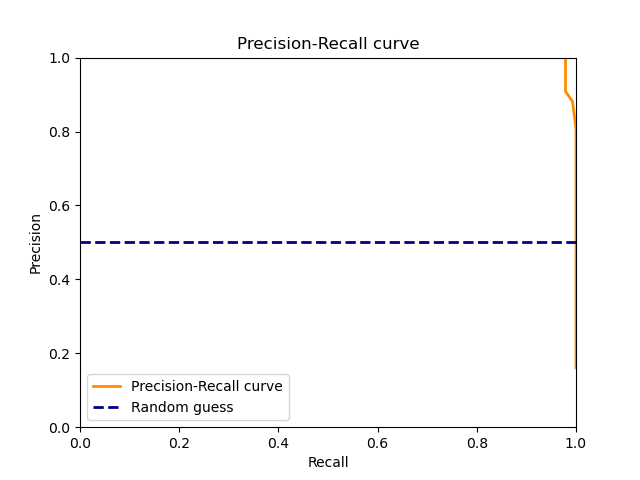
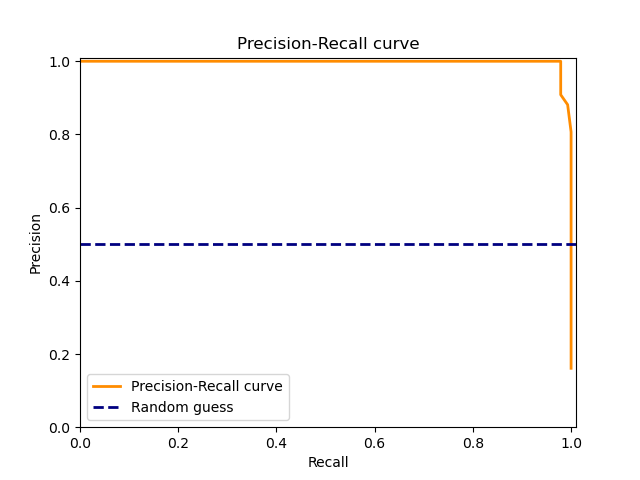
Update visualization.py to fix axis limits in ROC and precision-recall curves

diff --git a/src/models/visualization.py b/src/models/visualization.py
@@ -31,8 +31,8 @@ def plot_roc_curve(model, X_test, y_test, path=None):
     plt.figure()
     plt.plot(fpr, tpr, color='darkorange', lw=2, label='ROC curve (area = %0.2f)' % roc_auc)
     plt.plot([0, 1], [0, 1], color='navy', lw=2, linestyle='--', label='Random guess')
-    plt.xlim([0.0, 1.0])
-    plt.ylim([0.0, 1.05])
+    plt.xlim([0.0, 1.01])
+    plt.ylim([0.0, 1.01])
     plt.xlabel('False Positive Rate')
     plt.ylabel('True Positive Rate')
     plt.title('Receiver Operating Characteristic')
@@ -62,9 +62,9 @@ def plot_precision_recall_curve(model, X_test, y_test, path=None):
     # plot the precision-recall curve
     plt.figure()
     plt.plot(recall, precision, color='darkorange', lw=2, label='Precision-Recall curve')
-    plt.plot([0, 1], [0.5, 0.5], color='navy', lw=2, linestyle='--', label='Random guess')
-    plt.xlim([0.0, 1.0])
-    plt.ylim([0.0, 1.0])
+    plt.plot([0, 1.05], [0.5, 0.5], color='navy', lw=2, linestyle='--', label='Random guess')
+    plt.xlim([0.0, 1.01])
+    plt.ylim([0.0, 1.01])
     plt.xlabel('Recall')
     plt.ylabel('Precision')
     plt.title('Precision-Recall curve')

diff --git a/reports/attrition_report.md b/reports/attrition_report.md
@@ -37,17 +37,24 @@ Initial data analysis revealed several key insights into how attrition might be 
 <p float="left">
   <img src="figures/worktimeperday.png" width='40%' />
   <img src="figures/salaryhike.png" width='40%' />
+  <img src="figures/totworkyears.png" width='40%' />
 </p>
 
-This analysis provides a foundation for developing predictive models to anticipate employee attrition and identify the key factors driving it. When you look at the plots above, you can see that the age distribution is skewed to the right, with a higher proportion of younger employees. The monthly income distribution is left-skewed, with most employees earning between 20000 and 80000. The average daily work hours distribution is normally distributed, with most employees working between 6 and 10 hours per day. The percentage salary hike distribution is right-skewed, with most employees receiving a salary hike between 10% and 20%.
+This analysis provides a foundation for developing predictive models to anticipate employee attrition and identify the key factors driving it. When you look at the plots above, you can see that the age distribution is skewed to the right, with a higher proportion of younger employees. The monthly income distribution is left-skewed, with most employees earning between 20000 and 80000. The average daily work hours distribution is normally distributed, with most employees working between 6 and 10 hours per day. The percentage salary hike distribution is right-skewed, with most employees receiving a salary hike between 10% and 20%. The total working years distribution is left-skewed for both employees who stayed and those who left, with most employees having worked between 0 and 20 years.
+
+All there insights are crucial in understanding the dataset and identifying potential predictors of attrition.
+
+Age distributions provide insights into the demographic composition of the workforce, with a higher proportion of younger employees. This shows that age of the employees who left the company is slightly lower than those who stayed. This could indicate that younger employees are more likely to leave the company compared to older employees. The monthly income distribution shows that employees who left the company had a slightly lower monthly income compared to those who stayed. This could be due to various reasons, such as employees leaving for higher-paying jobs or dissatisfaction with their current salary. The average daily work hours distribution shows that employees who left the company spent slightly more time in the office compared to those who stayed. This could indicate that employees who work longer hours are more likely to leave the company. Also, the total working years distribution shows that employees who left the company had slightly fewer total working years compared to those who stayed. This could indicate that employees who have worked for a shorter period are more likely to leave the company.
 
 The percentage salary hike is the only counterintuitive variable in the dataset, as one would expect the mean  salary hike of employees who stayed at the company to be higher than those who left. However, the data shows that employees who left the company received a higher percentage salary hike on average compared to those who stayed. This could be due to various reasons, such as employees leaving due to dissatisfaction with their current salary which in turn leads to a higher percentage salary hikes.
 
-### Key Findings
+### Modelling Attrition Prediction
 
-Both models (decision tree and random forest) performed well in terms of f1 score, recall, and precision, but the random forest model outperformed the decision tree model slightly. These predictive models can be used to anticipate employee attrition and identify the key factors driving it and following gives a brief overview of the performance metrics of the two models:
+We used three models for this project: a logistic regression model, a decision tree model and a random forest model. Both decision tree and random forest models outperformed the logistic regression model, so we focused on the decision tree and random forest models. We used hyperparameter tuning to optimize the models and evaluated their performance using metrics such as f1 score, recall, and precision.
 
-#### Decision Tree Model
+Both decision tree and random forest performed well in terms of f1 score, recall, and precision, but the random forest model outperformed the decision tree model slightly. These predictive models can be used to anticipate employee attrition and identify the key factors driving it and following gives a brief overview of the performance metrics of the two models:
+
+#### Decision Tree Model:
 Confusion Matrix:
 
 <img src='figures/tree_confusion_matrix.png' width='50%'>
@@ -60,7 +67,7 @@ Roc Curve and precision-recall curve:
 
 Both the ROC curve and precision-recall curve show that the decision tree model performs well in distinguishing between employees who stayed and those who left.
 
-#### Random Forest Model
+#### Random Forest Model:
 Confusion Matrix:
 
 <img src='figures/forest_confusion_matrix.png' width='50%'>
@@ -83,7 +90,7 @@ The feature importance plots for the decision tree and random forest models offe
   <img src="figures/forest_feature_importance.png" width='40%' />
 </p>
 
-While slight variations exist between the models, they identify consistent drivers of attrition. Notably, attributes such as average time spent in the office, monthly income, job satisfaction, age, and tenure at the company emerge as influential factors. These insights inform HR strategies to proactively address attrition by focusing on these key drivers.
+While slight variations exist between the models, they identify consistent drivers of attrition. Notably, attributes such as average time spent in the office, monthly income, age, total working years and tenure at the company emerge as influential factors. These insights inform HR strategies to proactively address attrition by focusing on these key drivers.
 
 Both models highlight the paramount importance of average time spent daily in the office as the leading factor impacting attrition. This underscores the significance of promoting work-life balance and flexible arrangements to retain employees. Additionally, emphasis is placed on monthly income, total tenure, and age, indicating the importance of competitive compensation and age-tailored benefits for retention.
 
